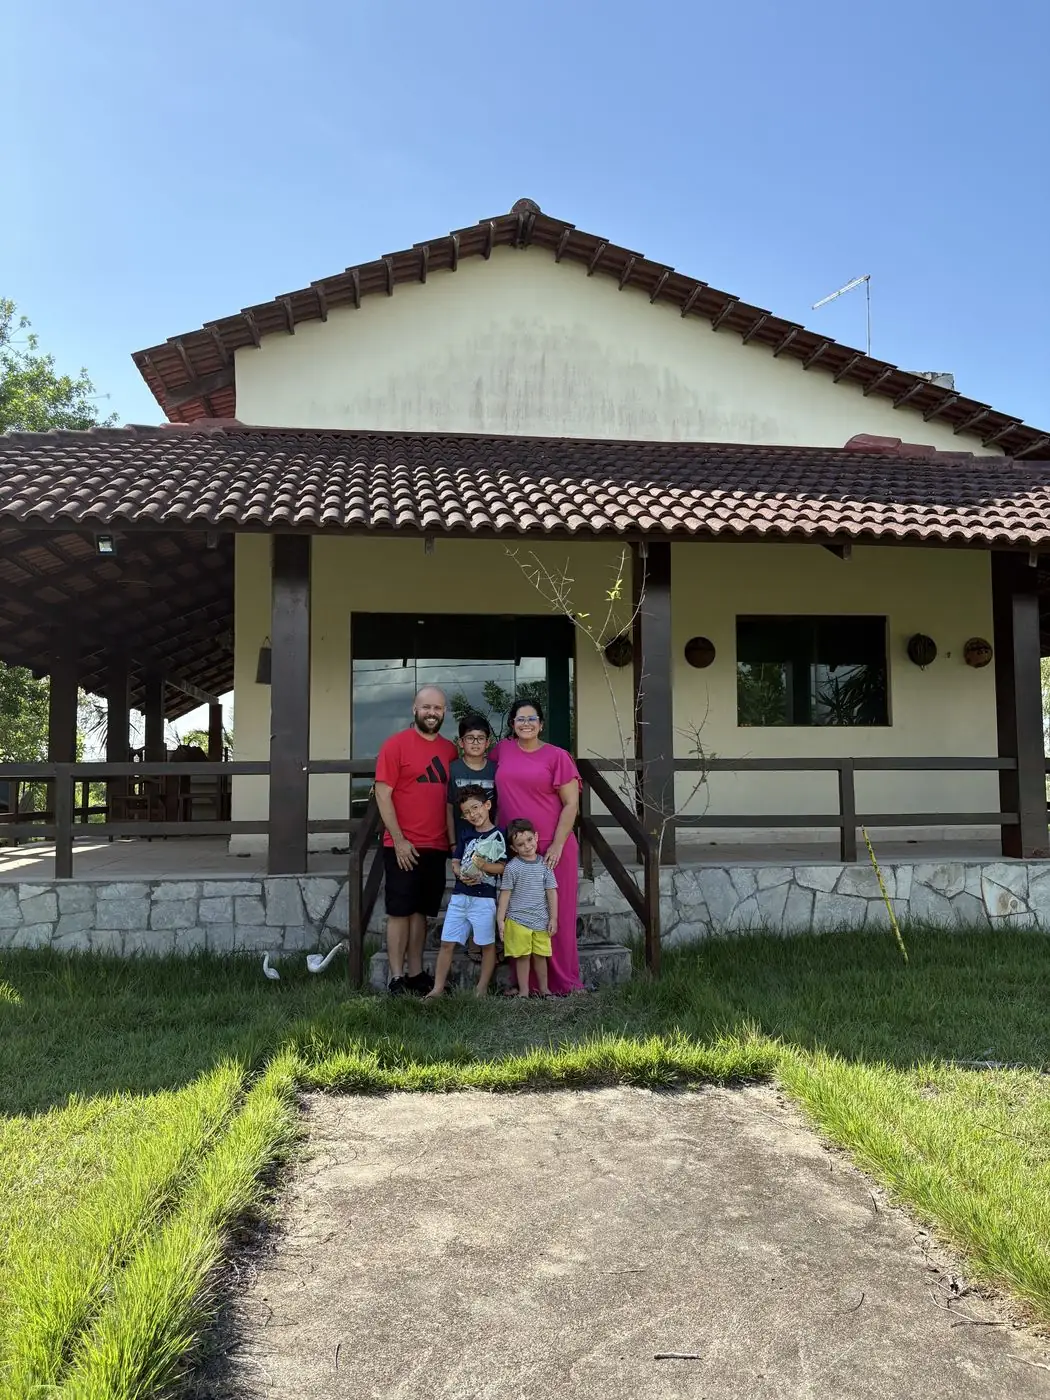
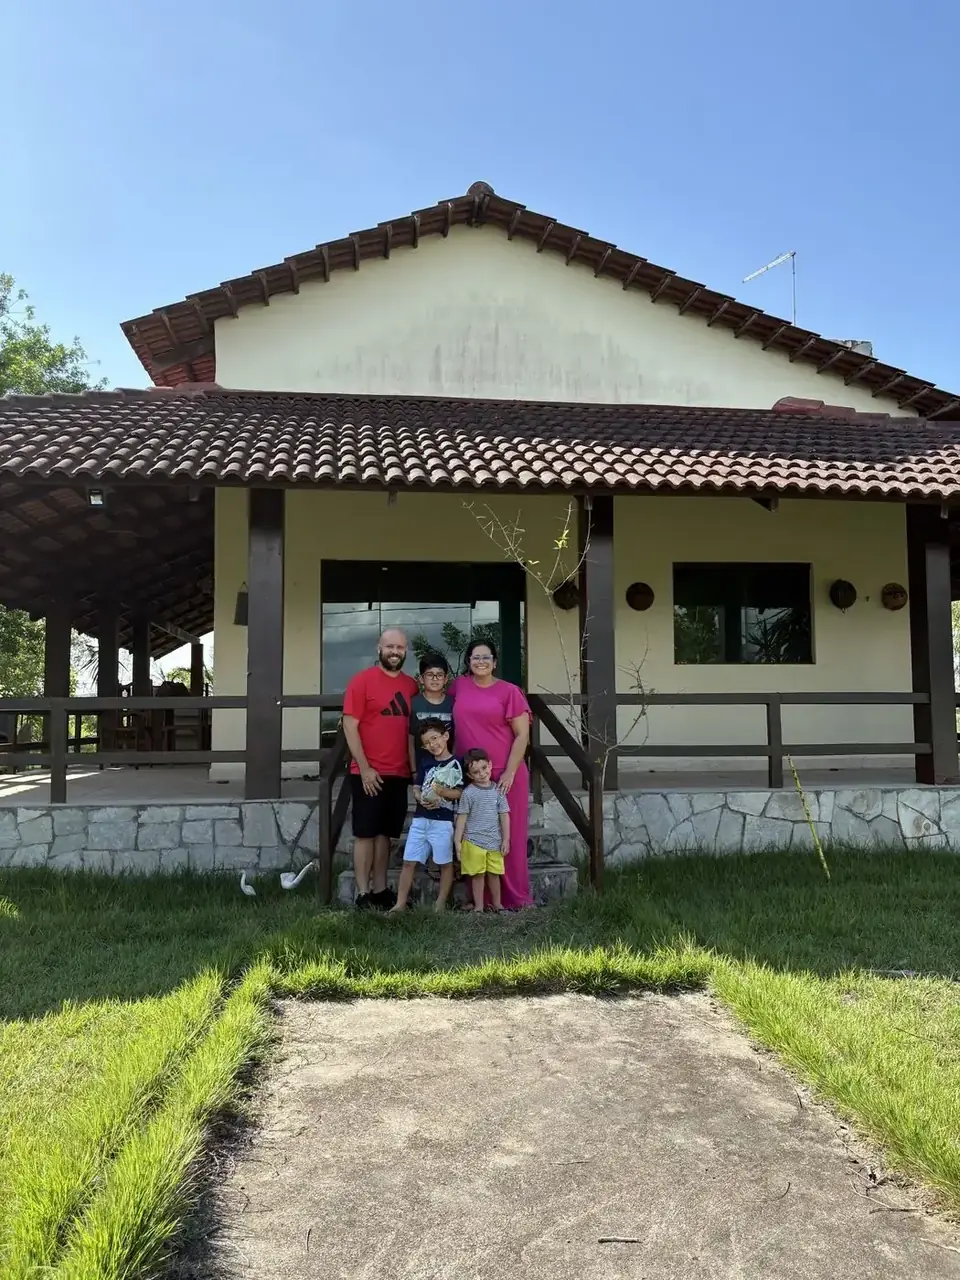
Batch 4: conversão, responsivo, performance e polish
- Trust bar entre hero e Quem somos: 15+ anos ministério, 120+ viagens,
  35 pessoas na Igreja Comum — prova social antes do primeiro scroll
- Touch target do float-cta: padding 13px → 15px (garante 44px mínimo)
- Breakpoint intermediário 480-699px para trust-bar e itens mobile
- hero.webp recomprimido 212KB → 165KB (dentro da meta <200KB da LCP)

https://claude.ai/code/session_013xjR9W5r6PyRKnuAzfGypd

diff --git a/familia-nascimento/index.html b/familia-nascimento/index.html
@@ -58,6 +58,13 @@ body { background: var(--cream); font-family: 'Alegreya Sans', sans-serif; color
 .hero-foot p { font-size: 11px; color: rgba(255,255,255,.72); letter-spacing: .04em; line-height: 1.75; text-shadow: 0 1px 3px rgba(0,0,0,.5); }
 .hero-foot em { font-style: italic; }
 
+/* TRUST BAR */
+.trust-bar { padding: 40px 0; border-bottom: 1px solid var(--sand); }
+.trust-wrap { display: flex; flex-wrap: wrap; gap: 32px; justify-content: center; }
+.trust-item { display: flex; flex-direction: column; align-items: center; text-align: center; gap: 4px; min-width: 120px; }
+.trust-num { font-family: 'Alegreya', serif; font-weight: 700; font-size: clamp(28px, 6vw, 40px); color: var(--olive); line-height: 1; }
+.trust-desc { font-size: 13px; color: var(--text-light); line-height: 1.4; max-width: 14ch; }
+
 /* SECTIONS */
 section { padding: 88px 0; }
 .bg-sand { background: var(--sand-lt); }
@@ -181,7 +188,7 @@ p.body strong { font-weight: 600; color: var(--text); }
 .ac-quote { font-size: 16px; line-height: 1.85; color: var(--text-light); text-align: center; max-width: 520px; margin: 0 auto; padding: 0 28px; font-style: italic; }
 
 /* FLOAT */
-.float-cta { position: fixed; bottom: max(20px, env(safe-area-inset-bottom)); right: max(20px, env(safe-area-inset-right)); z-index: 100; background: var(--terracotta); color: #fff; font-size: 14px; font-weight: 600; padding: 13px 22px; text-decoration: none; border-radius: 999px; box-shadow: 0 6px 24px rgba(0,0,0,.25); opacity: 0; pointer-events: none; transform: translateY(16px); transition: opacity .35s, transform .35s; }
+.float-cta { position: fixed; bottom: max(20px, env(safe-area-inset-bottom)); right: max(20px, env(safe-area-inset-right)); z-index: 100; background: var(--terracotta); color: #fff; font-size: 14px; font-weight: 600; padding: 15px 24px; text-decoration: none; border-radius: 999px; box-shadow: 0 6px 24px rgba(0,0,0,.25); opacity: 0; pointer-events: none; transform: translateY(16px); transition: opacity .35s, transform .35s; }
 .float-cta.show { opacity: 1; pointer-events: auto; transform: translateY(0); }
 .float-cta.hide { opacity: 0; pointer-events: none; }
 
@@ -211,7 +218,11 @@ p.body strong { font-weight: 600; color: var(--text); }
   .fronts { display: grid; grid-template-columns: 1fr 1fr; gap: clamp(32px, 4vw, 56px); }
   .fronts .front { padding-bottom: 8px; }
 }
-@media (max-width: 480px) { section { padding: 64px 0; } .wrap { width: min(100% - 44px, var(--content-max)); } .hero-body { width: min(100% - 44px, var(--layout-max)); padding: 54px 0 52px; } .hero-h1 { font-size: clamp(34px, 12vw, 42px); line-height: 1.04; margin-bottom: 16px; max-width: 10.5ch; } .hero-body-text { font-size: 15px; line-height: 1.72; max-width: 34ch; } .hero-tag { margin: 20px 0 28px; line-height: 1.5; } .hero-ctas { gap: 10px; } .btn-primary, .btn-ghost { padding: 14px 18px; font-size: 14px; } .hero-foot { width: min(100% - 44px, var(--layout-max)); padding: 20px 0; } .port-wrap, .img-break { width: min(100% - 44px, var(--layout-max)); } .editorial-block { width: min(100% - 44px, var(--layout-max)); } .editorial-block .img-break, .editorial-block .port-wrap { width: 100%; } .editorial-copy { padding-top: 36px; } }
+@media (min-width: 480px) and (max-width: 699px) {
+  .trust-wrap { gap: 24px 40px; }
+  .trust-item { min-width: 100px; }
+}
+@media (max-width: 480px) { section { padding: 64px 0; } .wrap { width: min(100% - 44px, var(--content-max)); } .hero-body { width: min(100% - 44px, var(--layout-max)); padding: 54px 0 52px; } .hero-h1 { font-size: clamp(34px, 12vw, 42px); line-height: 1.08; margin-bottom: 16px; max-width: 10.5ch; } .hero-body-text { font-size: 15px; line-height: 1.72; max-width: 34ch; } .hero-tag { margin: 20px 0 28px; line-height: 1.5; } .hero-ctas { gap: 10px; } .btn-primary, .btn-ghost { padding: 14px 18px; font-size: 14px; } .hero-foot { width: min(100% - 44px, var(--layout-max)); padding: 20px 0; } .port-wrap, .img-break { width: min(100% - 44px, var(--layout-max)); } .editorial-block { width: min(100% - 44px, var(--layout-max)); } .editorial-block .img-break, .editorial-block .port-wrap { width: 100%; } .editorial-copy { padding-top: 36px; } .trust-wrap { gap: 20px; } .trust-item { min-width: 90px; } }
 </style>
 </head>
 <body>
@@ -239,6 +250,23 @@ p.body strong { font-weight: 600; color: var(--text); }
 </header>
 
 <main id="conteudo">
+
+<section class="trust-bar fade-in" aria-label="Contexto da missão">
+  <div class="wrap trust-wrap">
+    <div class="trust-item">
+      <span class="trust-num">15+</span>
+      <span class="trust-desc">anos de ministério pastoral</span>
+    </div>
+    <div class="trust-item">
+      <span class="trust-num">120+</span>
+      <span class="trust-desc">viagens a Gurinhém antes de nos mudarmos</span>
+    </div>
+    <div class="trust-item">
+      <span class="trust-num">35</span>
+      <span class="trust-desc">pessoas caminhando conosco na Igreja Comum</span>
+    </div>
+  </div>
+</section>
 
 <section class="editorial-block fade-in">
   <div class="editorial-media">
